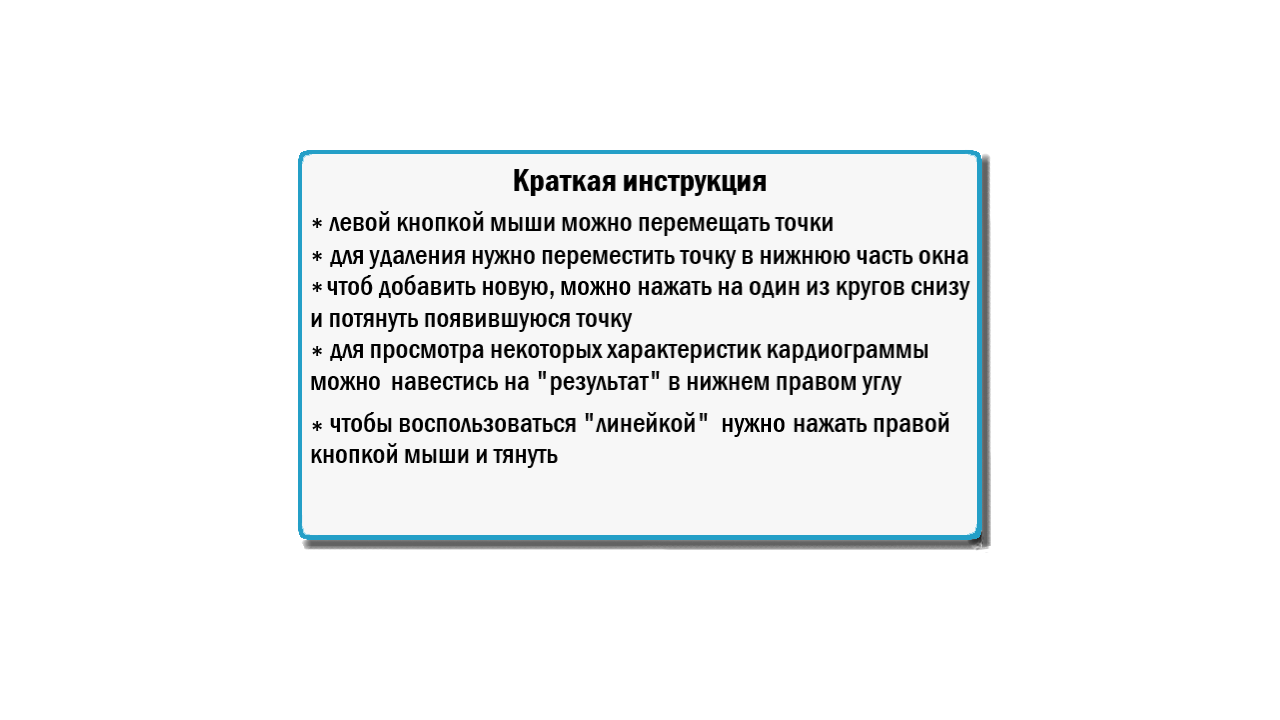
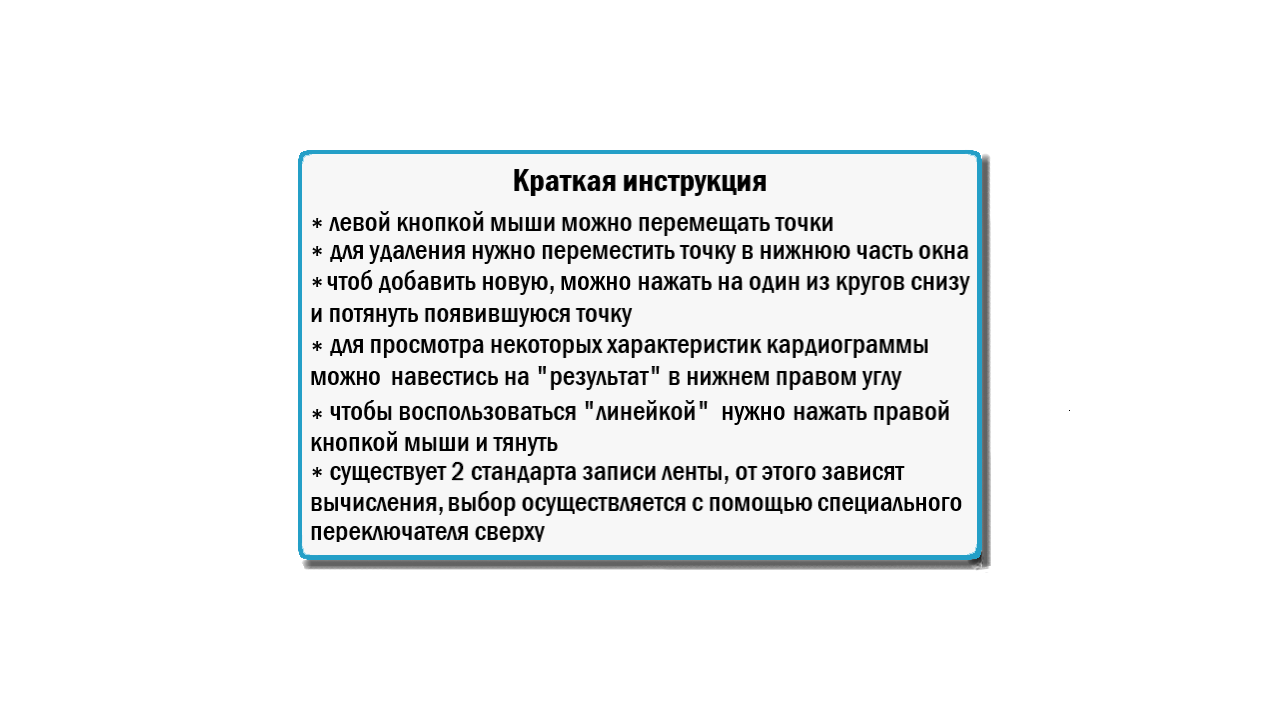
Window - Application
* добавлен переключатель режимов (скорость записи, 25 или 50)
* поправлены некоторые баги
* поправлены некоторые графические элементы

Changed region(s): [[0.2188, 0.3361, 0.7812, 0.7944]]

diff --git a/data/objects.py b/data/objects.py
@@ -237,7 +237,11 @@ class Point(Object):
                         'Q': 'point_q_image.png',
                         'S': 'point_s_image.png',
                         'T': 'point_t_image.png',
-                        'P': 'point_p_image.png'}
+                        'P': 'point_p_image.png',
+                        'LP': 'point_lp_image.png',
+                        'RS': 'point_rp_image.png',
+                        'LT': 'point_lt_image.png',
+                        'RT': 'point_rt_image.png'}
         super().__init__(x, y, w, h, self.__names[type_point], canvas, visibility, container, mode_coord)
         self.is_moving = False
         self.type_point = type_point
@@ -300,7 +304,11 @@ class ObjectGraphic:
                                'Q': [],
                                'S': [],
                                'T': [],
-                               'P': []}
+                               'P': [],
+                               'LP': [],
+                               'RS': [],
+                               'LT': [],
+                               'RT': []}
 
         self.create_all_obj()
 
@@ -318,15 +326,23 @@ class ObjectGraphic:
                 self.group.add_objects(obj)
                 self.dict_of_points[key].append(obj)
 
-        obj = Object(pw(20), ph(87), ph(10), ph(10), 'add_point_p.png', self.canvas, container=['P'])
+        obj = Object(pw(12), ph(87), ph(10), ph(10), 'add_point_lp.png', self.canvas, container=['LP'])
         self.adding_group.add_objects(obj)
-        obj = Object(pw(30), ph(87), ph(10), ph(10), 'add_point_q.png', self.canvas, container=['Q'])
+        obj = Object(pw(19), ph(87), ph(10), ph(10), 'add_point_p.png', self.canvas, container=['P'])
         self.adding_group.add_objects(obj)
-        obj = Object(pw(40), ph(87), ph(10), ph(10), 'add_point_r.png', self.canvas, container=['R'])
+        obj = Object(pw(26), ph(87), ph(10), ph(10), 'add_point_q.png', self.canvas, container=['Q'])
         self.adding_group.add_objects(obj)
-        obj = Object(pw(50), ph(87), ph(10), ph(10), 'add_point_s.png', self.canvas, container=['S'])
+        obj = Object(pw(33), ph(87), ph(10), ph(10), 'add_point_r.png', self.canvas, container=['R'])
         self.adding_group.add_objects(obj)
-        obj = Object(pw(60), ph(87), ph(10), ph(10), 'add_point_t.png', self.canvas, container=['T'])
+        obj = Object(pw(40), ph(87), ph(10), ph(10), 'add_point_s.png', self.canvas, container=['S'])
+        self.adding_group.add_objects(obj)
+        obj = Object(pw(47), ph(87), ph(10), ph(10), 'add_point_rp.png', self.canvas, container=['RS'])
+        self.adding_group.add_objects(obj)
+        obj = Object(pw(54), ph(87), ph(10), ph(10), 'add_point_lt.png', self.canvas, container=['LT'])
+        self.adding_group.add_objects(obj)
+        obj = Object(pw(61), ph(87), ph(10), ph(10), 'add_point_t.png', self.canvas, container=['T'])
+        self.adding_group.add_objects(obj)
+        obj = Object(pw(68), ph(87), ph(10), ph(10), 'add_point_rt.png', self.canvas, container=['RT'])
         self.adding_group.add_objects(obj)
 
     def temporarily_hide_points(self, *args):

diff --git a/data/main_cycle.py b/data/main_cycle.py
@@ -132,6 +132,10 @@ class MainCycle:
                      function=self.start_scanning, container=[False], visibility=False)
         self.view_grope.add_objects(btn)
 
+        self.mode_switcher = Button(pw(25), ph(1.5), ph(14), ph(7), 'switch_mode.png', self.canvas,
+                     function=self.set_speed_50, container=[False])
+        self.view_grope.add_objects(self.mode_switcher)
+
         btn = Button(pw(2), ph(1.6), ph(6), ph(6), 'back_button.png', self.canvas, 'back_button_2.png', self.start_main_menu)
         self.view_grope.add_objects(btn)
         self.obj_graphic = ObjectGraphic(self.canvas, self.graphic, self.file_name, 0, ph(10), pw(100), ph(75), scan_graphic=self.scan_graphic)
@@ -164,14 +168,17 @@ class MainCycle:
         self.graphic.graph_detection()
         self.start_view_menu()
 
+    def update_graph_data(self):
+        self.graphic.find_heart_rate()
+        self.graphic.find_intervals()
+        self.text_css.set_new_text(f'{round(self.graphic.heart_rate, 1)} уд/мин')
+
     def scan_graphic(self, *args):
         for key in self.obj_graphic.dict_of_points:
             self.graphic.dict_of_points[key] = []
             for point in self.obj_graphic.dict_of_points[key]:
                 self.graphic.dict_of_points[key].append(point.get_cor_point())
-        self.graphic.find_heart_rate()
-        self.graphic.find_intervals()
-        self.text_css.set_new_text(f'{round(self.graphic.heart_rate, 1)} уд/мин')
+        self.update_graph_data()
 
     def show_hide_instruction(self, *args):
         obj = args[0]
@@ -196,4 +203,17 @@ class MainCycle:
         self.obj_result.go_to(pw(85), ph(87))
         self.test_result.hide()
 
+    def set_speed_25(self, *args):
+        self.mode_switcher.change_img('switch_mode.png', ph(14), ph(7))
+        self.mode_switcher.function = self.set_speed_50
+        self.graphic.speed_of_ecg = 25
+        self.peed_reading = 25
+        self.update_graph_data()
+
+    def set_speed_50(self, *args):
+        self.mode_switcher.change_img('switch_mode_2.png', ph(14), ph(7))
+        self.mode_switcher.function = self.set_speed_25
+        self.graphic.speed_of_ecg = 50
+        self.peed_reading = 50
+        self.update_graph_data()
 

diff --git a/graphic.py b/graphic.py
@@ -66,7 +66,7 @@ class Graphic:
             list_of_intervals = [0]
         else:
             for i in range(len(dict_of_points['LP'])):
-                if len(dict_of_points['LP']) > 0 and len(dict_of_points['T']) > 0:
+                if len(dict_of_points['LP']) > 0 and len(dict_of_points['RT']) > 0:
                     list_of_intervals.append(abs(dict_of_points['LP'][0][0]-dict_of_points['RT'][0][0]))
                     del dict_of_points['LP'][0]
                     del dict_of_points['RT'][0]
@@ -951,7 +951,10 @@ class Graphic:
             for j in range(len(self.dict_of_intervals[i])):
                 average_interval += self.dict_of_intervals[i][j]
 
-            average_interval = round(average_interval / len(self.dict_of_intervals[i]), 4)
+            if len(self.dict_of_intervals[i]) >= 2:
+                average_interval = average_interval / (len(self.dict_of_intervals[i]) - 1)
+            else:
+                average_interval = average_interval
             if average_interval == 0:
                 self.prediction += f'{i} - Недостаточно точек для определения.\n'
             else:
